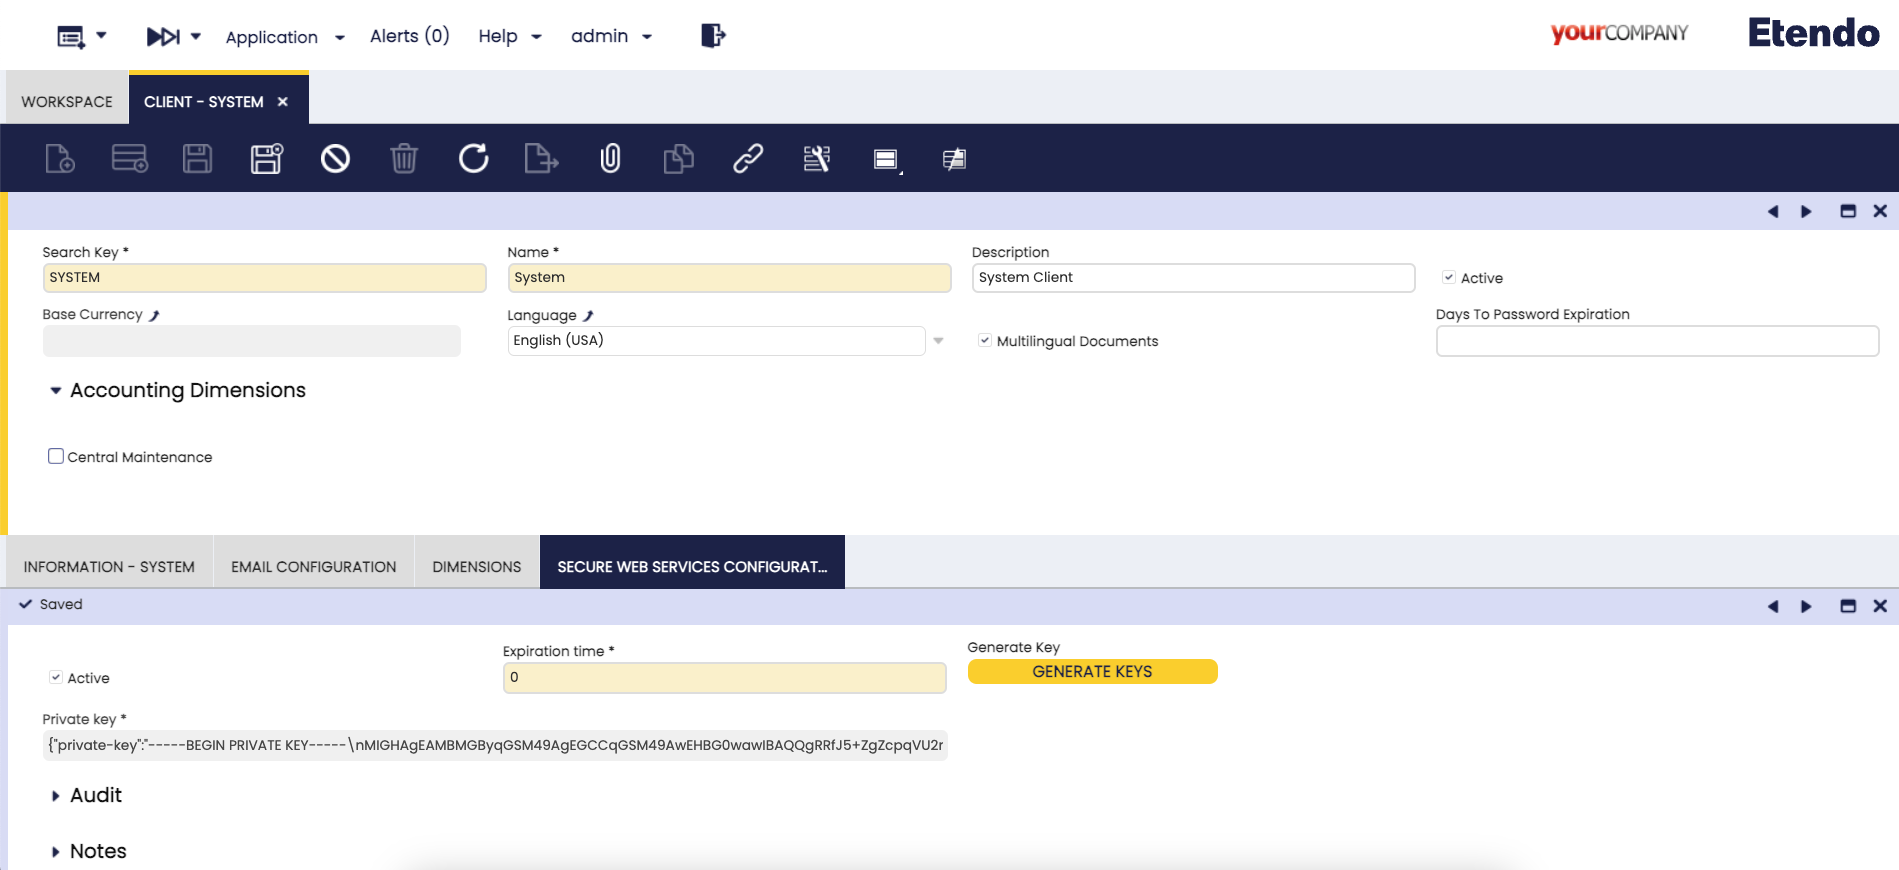
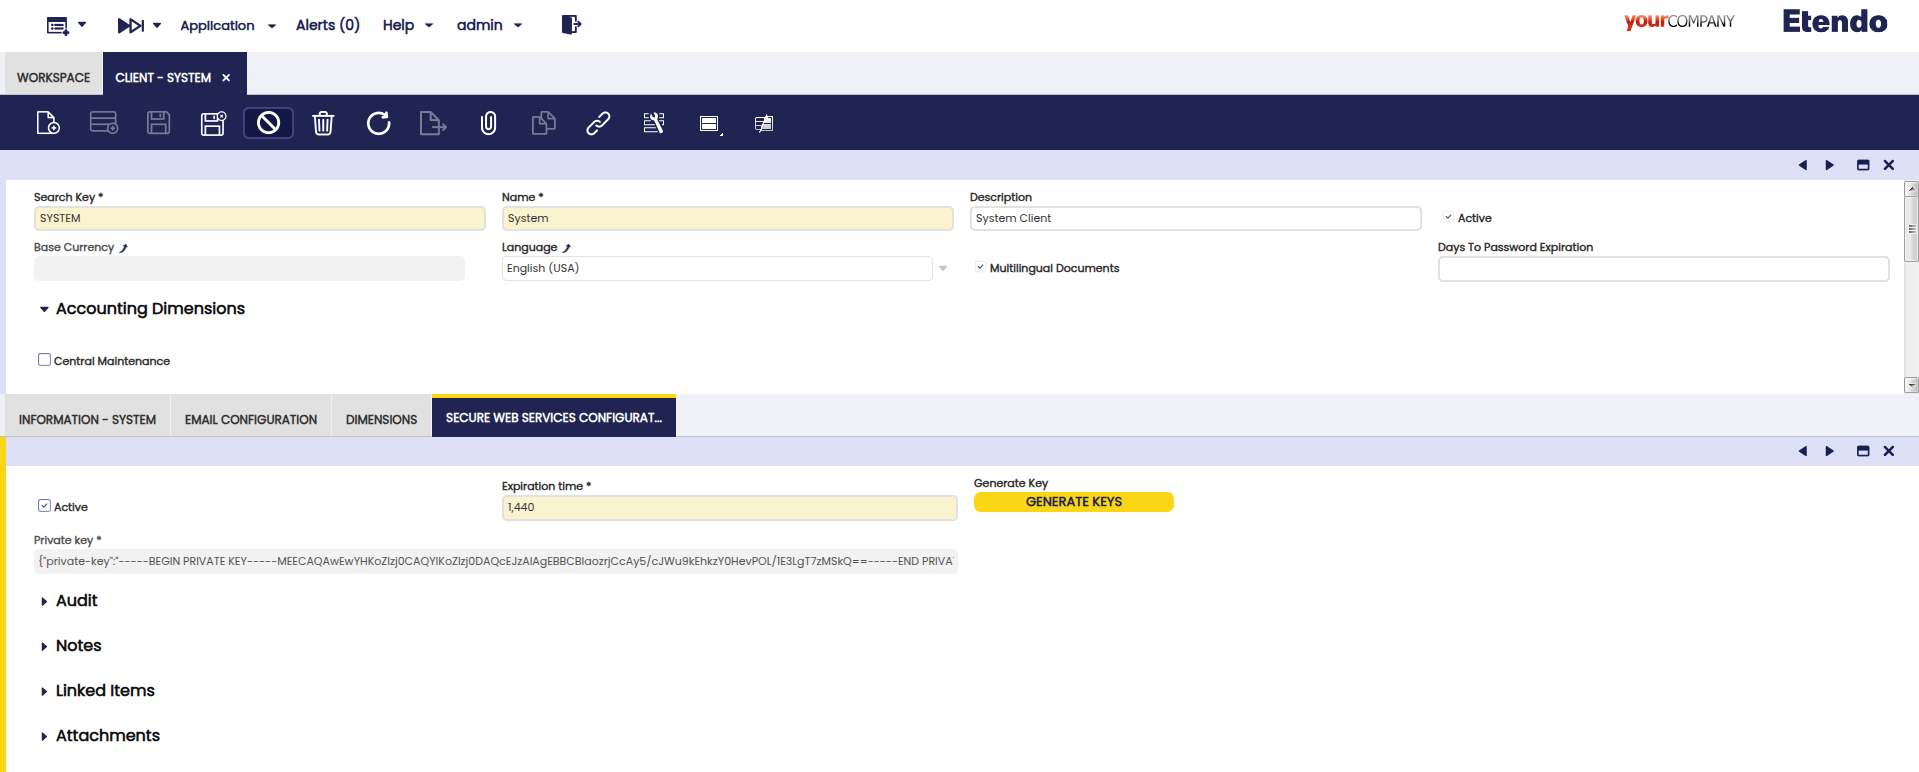
Feature ETP-2936: Adapt SWS doc for 26Q1

diff --git a/docs/developer-guide/etendo-classic/how-to-guides/how-to-use-secure-webservices.md b/docs/developer-guide/etendo-classic/how-to-guides/how-to-use-secure-webservices.md
@@ -17,27 +17,31 @@ This authentication method also allows defining the context for the calls by cho
 
 Besides the authentication implementation, the module includes utilities for developers and useful web services, such as jsonDal (to access the OB Data Access Layer with json).
 
-## Setup 
+## Setup
 
-!!! Info 
+!!! Info
     By default, the ES256 encryption algorithm is used, it is possible to change it by setting a new preference with the `Encryption Algorithm` property and set its value to `HS256`.
 
 ### Initial configuration
+
+!!! note
+    Starting from 26Q1, the Secure Web Services key is automatically generated when running the `./gradlew install` task.  
+    This generated key uses the **ES256 algorithm by default**.
+
 :material-menu: `Application` > `General Setup` > `Client` > `Client`
+
 It is necessary to configure the encryption key and the expiration time for the authentication tokens in the Client window with the System Administrator role.
 
-If the expiration time is equal to "0" the tokens do not expire.
+The expiration time value is expressed in **minutes**.
 
 Generate a random key with the "Generate key" button.
 
 ![](../../../assets/developer-guide/etendo-classic/how-to-guides/how-to-use-secure-web-services/SWS.png)
-
 
 ## Secure Web Services Swagger
 
 !!! info
     For more information, visit [Secure Web Services Swagger](https://demo.etendo.cloud/etendo/web/com.smf.securewebservices/doc/#/Login/post_sws_login){target="_blank"}.
 
-
 ---
-This work is licensed under :material-creative-commons: :fontawesome-brands-creative-commons-by: :fontawesome-brands-creative-commons-sa: [ CC BY-SA 2.5 ES](https://creativecommons.org/licenses/by-sa/2.5/es/){target="_blank"} by [Futit Services S.L](https://etendo.software){target="_blank"}.
+This work is licensed under :material-creative-commons: :fontawesome-brands-creative-commons-by: :fontawesome-brands-creative-commons-sa: [CC BY-SA 2.5 ES](https://creativecommons.org/licenses/by-sa/2.5/es/){target="_blank"} by [Futit Services S.L](https://etendo.software){target="_blank"}.
